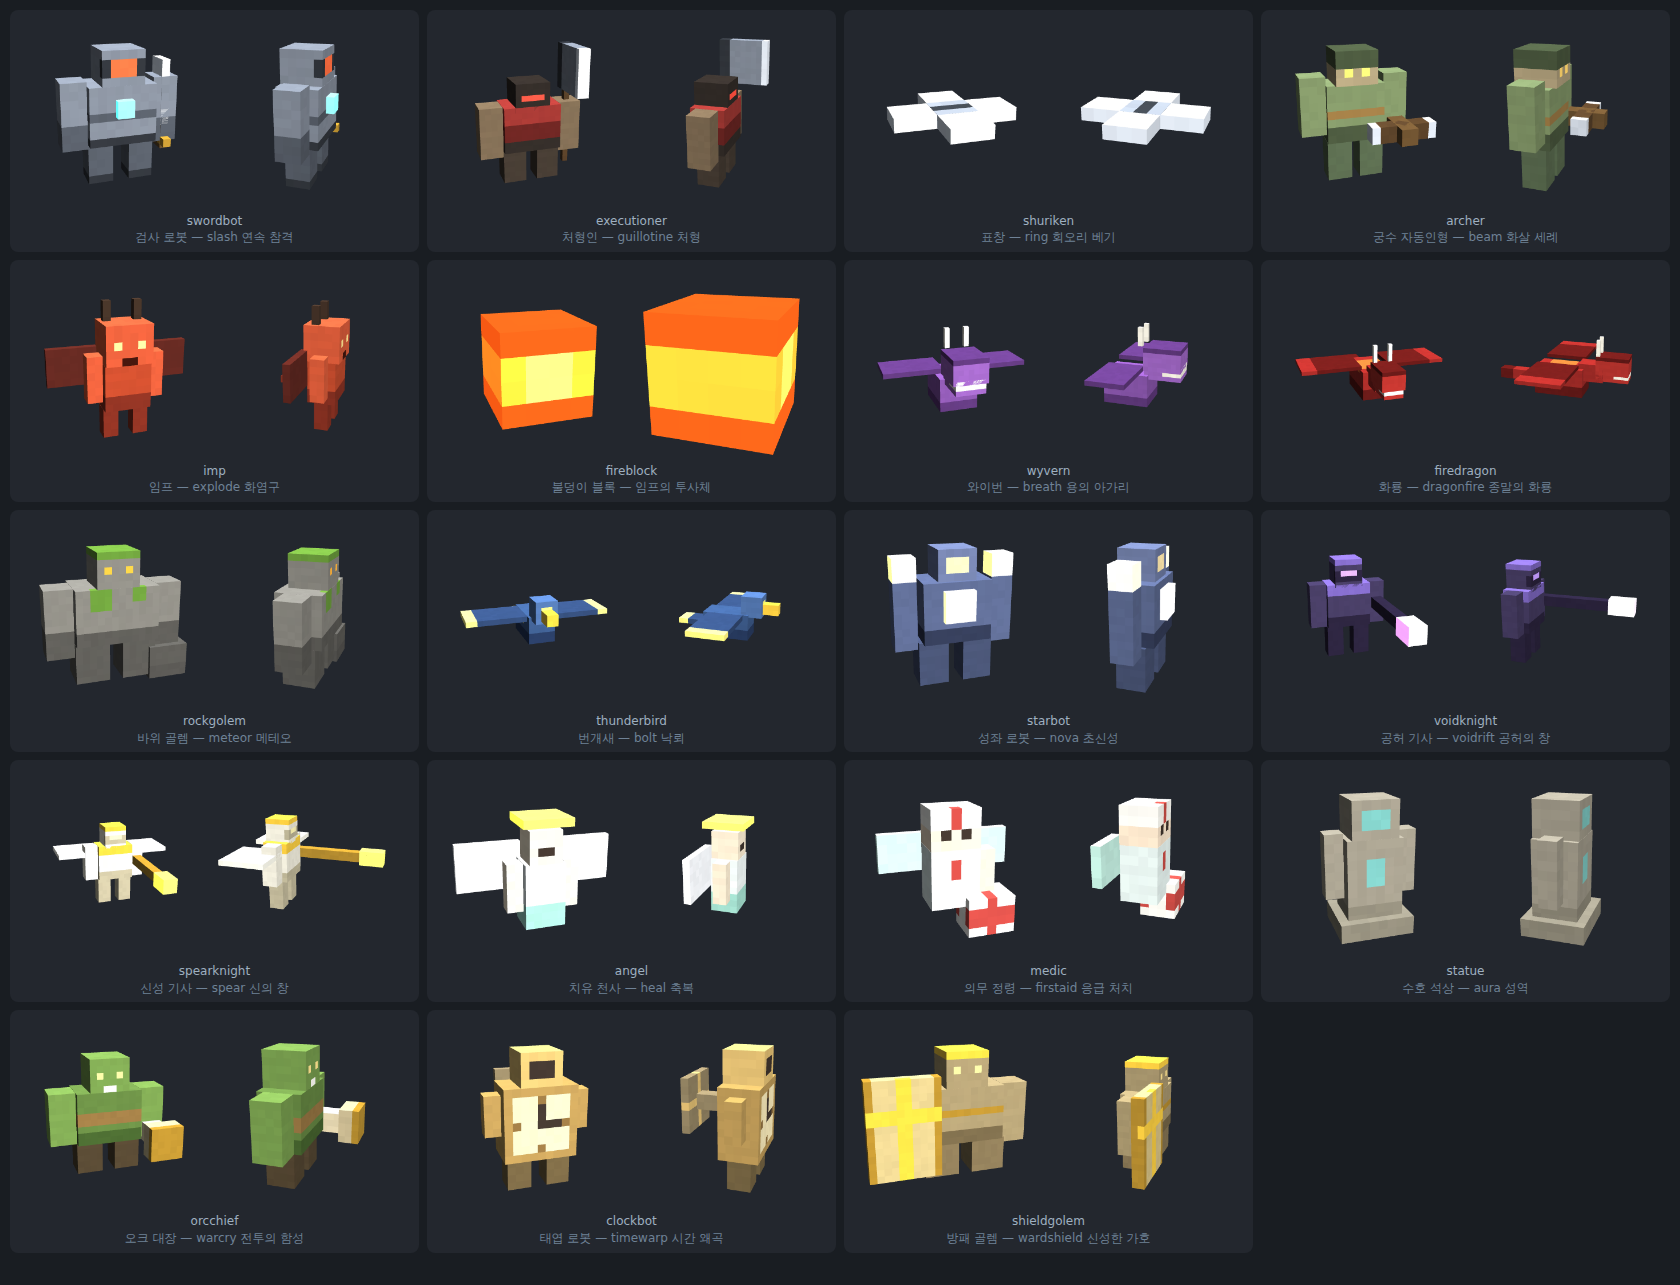
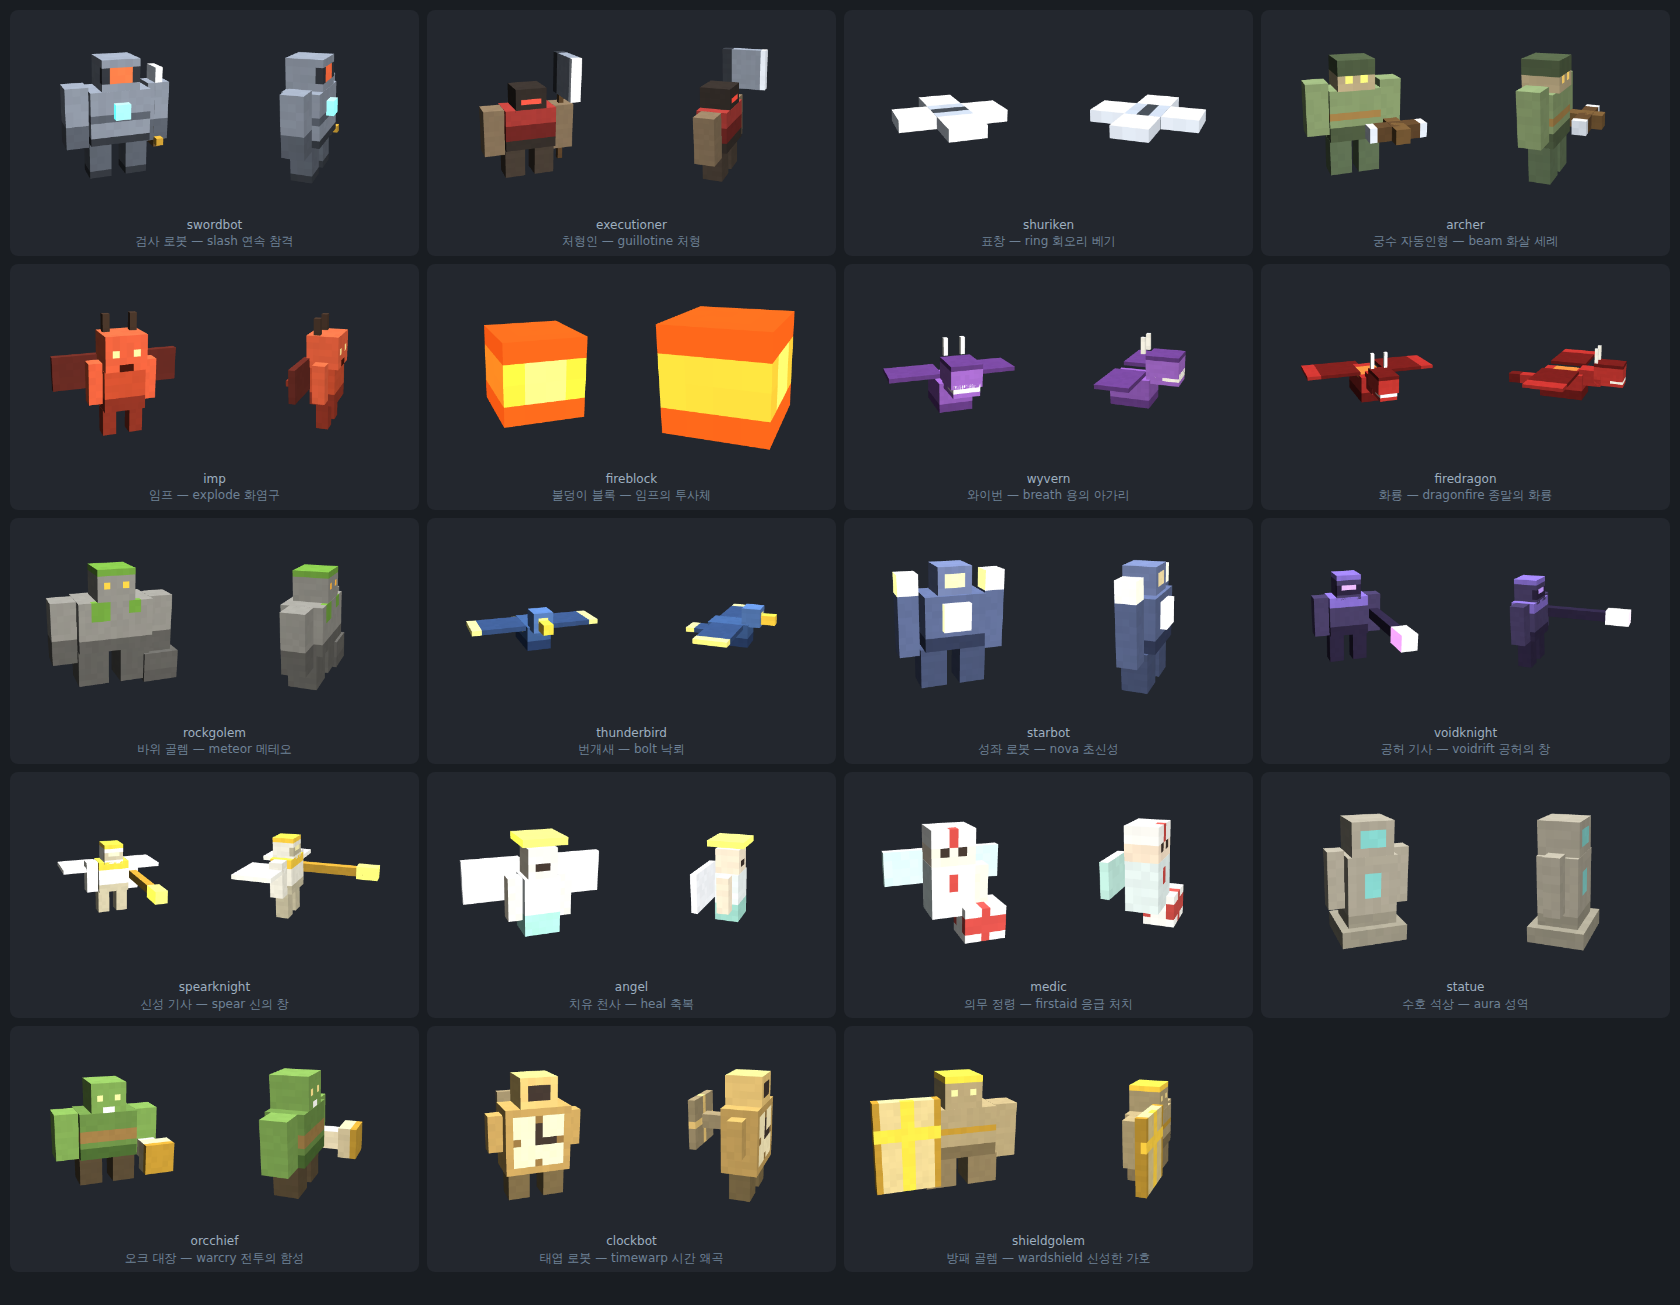
스킬 오브젝트 단독 시트 완성 — 19종 2각도 + 한국어 설명, 창끝 잘림 수리
사용자 지시(2026-08-21): "스킬에 나오는 오브젝트들만 따로 스크린샷 뽑아서 보여주기. 디자인 내가 평가하게."

- renderMob 에 pad(프레이밍 여백 배수) 인자 추가. 생략하면 1 = 종전 동작 그대로다.
  🚨 이게 없으면 voidknight/spearknight 의 **창끝이 프레임 밖으로 잘린다** — 자동 프레이밍이
  박스 최대변으로 거리를 잡는데 창은 한 축으로만 길어 그 축이 화각을 넘긴다(1차 렌더 실측).
- shot-mobs.js 를 종류별 설정표(SHEET)로 정리하고 skillfx 분기를 넣는다. skillfx 만
  시트 폭 1680 · 렌더 340 · pad 1.14 — 4열 5행에서도 조형이 크게 보이게. pets/mounts/enemies
  는 종전 값을 그대로 박아 뒀다(회귀 확인: enemies 7종·pets 25종, 에러 0건).
- SKILLFX_KR 설명표는 mobs-skillfx.js 주석이 정본이고 거기서 옮긴 것이다.

⚠ 시트 프레이밍은 셀마다 자동 맞춤이라 **절대 크기가 아니다** — fireblock(1파츠 큐브)이
   firedragon 과 같은 화면 크기로 보이는 건 그 때문이고 인게임 비례가 아니다.

diff --git a/web/tools/shot-mobs.js b/web/tools/shot-mobs.js
@@ -12,7 +12,7 @@ const SHEET = {
     pets: { table: 'PET_MODELS', width: 1200, size: 260, cols: 4, img: 48 },
     mounts: { table: 'MOUNT_MODELS', width: 1200, size: 260, cols: 4, img: 48 },
     enemies: { table: 'ENEMY_MODELS', width: 1200, size: 260, cols: 4, img: 48 },
-    skillfx: { table: 'SKILLFX_MODELS', width: 1680, size: 340, cols: 4, img: 49 },
+    skillfx: { table: 'SKILLFX_MODELS', width: 1680, size: 340, cols: 4, img: 50, pad: 1.14 },
 };
 const CFG = SHEET[KIND];
 if (!CFG) { console.error('알 수 없는 종류: ' + KIND + ' (pets|mounts|enemies|skillfx)'); process.exit(1); }
@@ -51,10 +51,10 @@ const SKILLFX_KR = {
     if (!names.length) { console.error(CFG.table + ' 이 비었다 — mobsheet.html 의 스크립트 로드를 확인해라.'); process.exit(1); }
     const shots = [];
     for (const n of names) {
-        const two = await page.evaluate(({ n, t, size }) => {
+        const two = await page.evaluate(({ n, t, size, pad }) => {
             const m = window[t][n];
-            return [renderMob(m, size, 0.62), renderMob(m, size, Math.PI / 2)];
-        }, { n, t: CFG.table, size: CFG.size });
+            return [renderMob(m, size, 0.62, pad), renderMob(m, size, Math.PI / 2, pad)];
+        }, { n, t: CFG.table, size: CFG.size, pad: CFG.pad });
         shots.push({ n, two });
     }
     const html = `<html><head><meta charset="utf-8"><style>

diff --git a/web/tools/mobsheet.html b/web/tools/mobsheet.html
@@ -10,7 +10,9 @@
 <script src="../js/mobs-skillfx.js" onerror="window.__noSkillfx=1"></script>
 <script>
 // 종별 미리보기 렌더러 — 게임 조명과 같은 값(키 라이트 + 반구광)으로 한 종을 2각도로 찍는다.
-window.renderMob = function (model, size, yaw) {
+// `pad` 는 프레이밍 여백 배수(생략 시 1 = 종전 동작). 창·날개처럼 옆으로 길게 뻗는 파츠는
+// 카메라가 비스듬해서 화면 밖으로 밀려 잘리는 일이 있어, 스킬 액터 시트는 살짝 물려서 찍는다.
+window.renderMob = function (model, size, yaw, pad) {
     const r = window.__r || (window.__r = new THREE.WebGLRenderer({ antialias: true, alpha: true, preserveDrawingBuffer: true }));
     r.setPixelRatio(1); r.setSize(size, size);
     const sc = new THREE.Scene();
@@ -22,7 +24,7 @@ window.renderMob = function (model, size, yaw) {
     g.rotation.y = yaw;
     const box = new THREE.Box3().setFromObject(g), c = box.getCenter(new THREE.Vector3()), sz = box.getSize(new THREE.Vector3());
     const cam = new THREE.PerspectiveCamera(28, 1, 0.01, 40);
-    const d = Math.max(sz.x, sz.y, sz.z) * 2.5 + 0.2;
+    const d = (Math.max(sz.x, sz.y, sz.z) * 2.5 + 0.2) * (pad || 1);
     cam.position.set(c.x + d * 0.32, c.y + d * 0.34, c.z + d);
     cam.lookAt(c);
     r.render(sc, cam);
